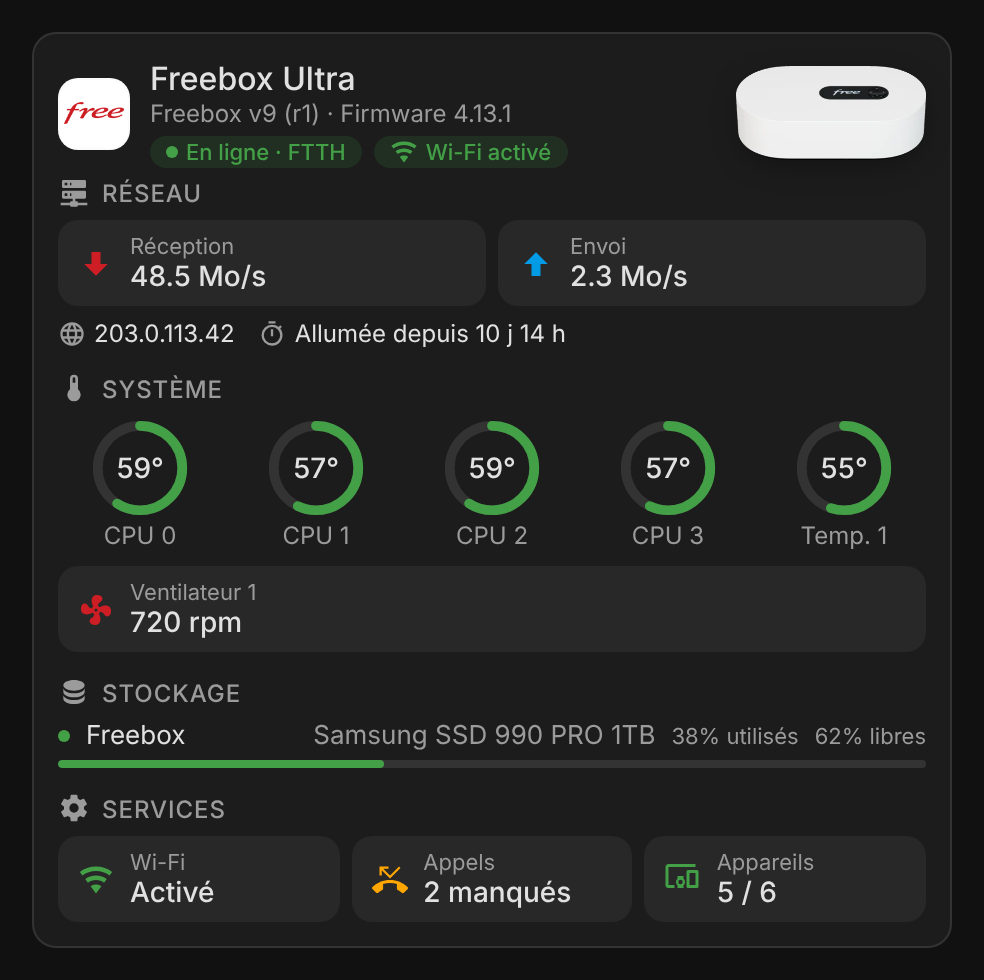
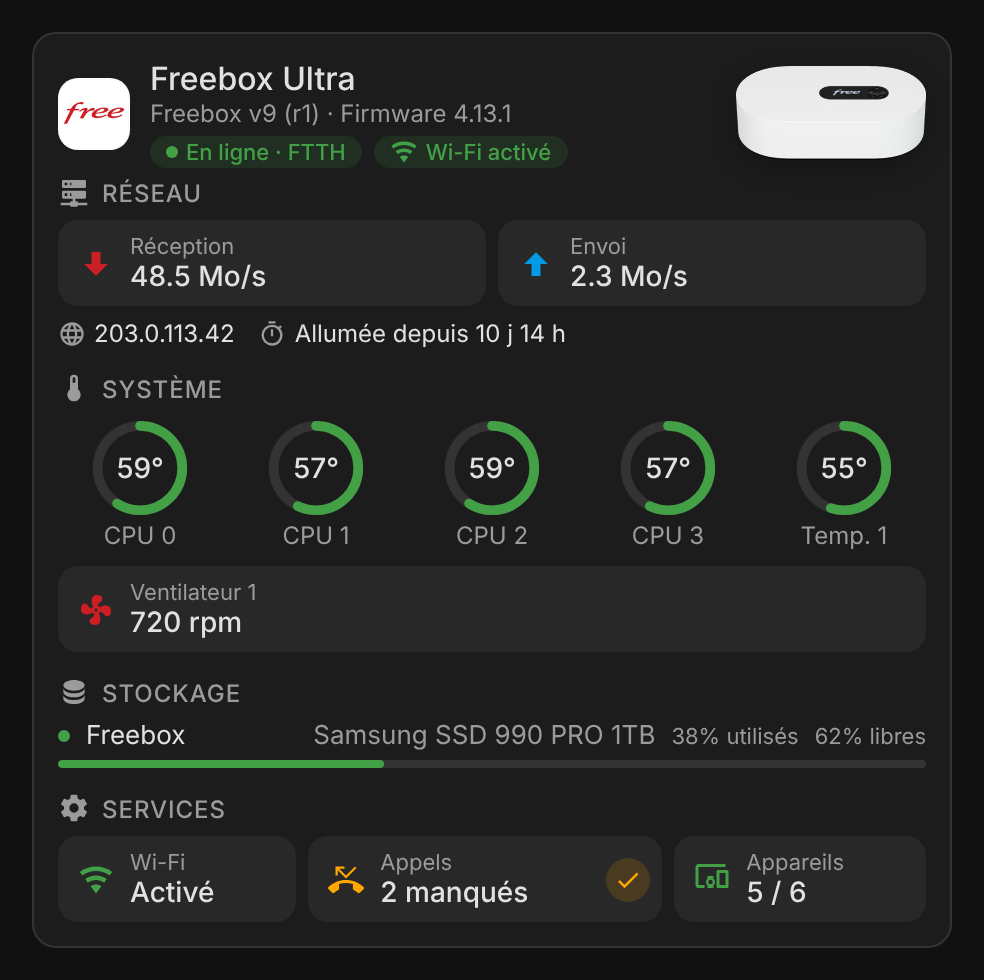
Button to mark missed calls as read (1.5.0) (#4)
The calls tile gets a check button, shown when there are missed calls,
that presses the Freebox integration's mark_calls_as_read button.
Service tiles size to their content so the French label keeps room.
Screenshots regenerated.

Claude-Session: https://claude.ai/code/session_017JzJqMNNFYQBfDS2KaS4H4

Changed region(s): [[0.6098, 0.8571, 0.8537, 0.9184], [0.3354, 0.8571, 0.5793, 0.9184]]

diff --git a/src/freebox-card.js b/src/freebox-card.js
@@ -24,6 +24,7 @@ const ICONS = {
   devices: "M3,6H21V4H3C1.9,4 1,4.9 1,6V18A2,2 0 0,0 3,20H7V18H3V6M13,12H9V13.78C8.39,14.33 8,15.11 8,16C8,16.89 8.39,17.67 9,18.22V20H13V18.22C13.61,17.67 14,16.88 14,16C14,15.12 13.61,14.33 13,13.78V12M11,17.5A1.5,1.5 0 0,1 9.5,16A1.5,1.5 0 0,1 11,14.5A1.5,1.5 0 0,1 12.5,16A1.5,1.5 0 0,1 11,17.5M22,8H16A1,1 0 0,0 15,9V19A1,1 0 0,0 16,20H22A1,1 0 0,0 23,19V9A1,1 0 0,0 22,8M21,18H17V10H21V18Z",
   wifi: "M12,21L15.6,16.2C14.6,15.45 13.35,15 12,15C10.65,15 9.4,15.45 8.4,16.2L12,21M12,3C7.95,3 4.21,4.34 1.2,6.6L3,9C5.5,7.12 8.62,6 12,6C15.38,6 18.5,7.12 21,9L22.8,6.6C19.79,4.34 16.05,3 12,3M12,9C9.3,9 6.81,9.89 4.8,11.4L6.6,13.8C8.1,12.67 9.97,12 12,12C14.03,12 15.9,12.67 17.4,13.8L19.2,11.4C17.19,9.89 14.7,9 12,9Z",
   wifi_off: "M2.28,3L1,4.27L2.47,5.74C2.04,6 1.61,6.29 1.2,6.6L3,9C3.39,8.7 3.82,8.42 4.26,8.16L6.5,10.4C5.9,10.68 5.33,11 4.8,11.4L6.6,13.8C7.14,13.4 7.73,13.06 8.35,12.79L10.88,15.32C10,15.5 9.13,15.79 8.4,16.2L12,21L14.88,17.17L19.73,22L21,20.72L3.28,3H2.28M12,3C10.08,3 8.24,3.3 6.5,3.85L8.97,6.32C9.95,6.11 10.96,6 12,6C15.38,6 18.5,7.12 21,9L22.8,6.6C19.79,4.34 16.05,3 12,3M12,9C11.62,9 11.25,9 10.88,9.05L14.15,12.32C15.32,12.6 16.43,13.09 17.4,13.8L19.2,11.4C17.19,9.89 14.7,9 12,9Z",
+  check: "M21,7L9,19L3.5,13.5L4.91,12.09L9,16.17L19.59,5.58L21,7Z",
   phone: "M6.62,10.79C8.06,13.62 10.38,15.94 13.21,17.38L15.41,15.18C15.69,14.9 16.08,14.82 16.43,14.93C17.55,15.3 18.75,15.5 20,15.5A1,1 0 0,1 21,16.5V20A1,1 0 0,1 20,21A17,17 0 0,1 3,4A1,1 0 0,1 4,3H7.5A1,1 0 0,1 8.5,4C8.5,5.25 8.7,6.45 9.07,7.57C9.18,7.92 9.1,8.31 8.82,8.59L6.62,10.79Z",
   phone_missed: "M23.71,16.67C20.66,13.77 16.54,12 12,12C7.46,12 3.34,13.77 0.29,16.67C0.11,16.85 0,17.1 0,17.38C0,17.66 0.11,17.9 0.29,18.08L2.77,20.56C2.95,20.74 3.2,20.85 3.5,20.85C3.75,20.85 4,20.75 4.18,20.57C4.97,19.83 5.86,19.21 6.84,18.71C7.17,18.55 7.4,18.21 7.4,17.81V14.71C8.85,14.24 10.39,14 12,14C13.6,14 15.15,14.24 16.6,14.72V17.82C16.6,18.22 16.83,18.56 17.16,18.72C18.14,19.21 19.04,19.84 19.82,20.58C20,20.76 20.25,20.86 20.5,20.86C20.8,20.86 21.05,20.75 21.23,20.57L23.71,18.09C23.89,17.91 24,17.66 24,17.38C24,17.1 23.89,16.85 23.71,16.67M6.5,5.5L12,11L19,4L18,3L12,9L7.5,4.5H11V3H5V9H6.5V5.5Z",
   database: "M12,3C7.58,3 4,4.79 4,7C4,9.21 7.58,11 12,11C16.42,11 20,9.21 20,7C20,4.79 16.42,3 12,3M4,9V12C4,14.21 7.58,16 12,16C16.42,16 20,14.21 20,12V9C20,11.21 16.42,13 12,13C7.58,13 4,11.21 4,9M4,14V17C4,19.21 7.58,21 12,21C16.42,21 20,19.21 20,17V14C20,16.21 16.42,18 12,18C7.58,18 4,16.21 4,14Z",
@@ -49,6 +50,7 @@ const STRINGS = {
     on: "On",
     off: "Off",
     missed_calls: "Missed calls",
+    mark_read: "Mark calls as read",
     calls: "Calls",
     missed: "missed",
     fan: "Fan",
@@ -99,6 +101,7 @@ const STRINGS = {
     on: "Activé",
     off: "Désactivé",
     missed_calls: "Appels manqués",
+    mark_read: "Marquer les appels comme lus",
     calls: "Appels",
     missed: "manqués",
     fan: "Ventilateur",
@@ -296,6 +299,7 @@ const discover = (hass, boxId) => {
         const k = e.translation_key;
         const a = hass.states[id].attributes;
         if (k === "rate_down" || k === "rate_up" || k === "missed" || k === "wifi") box.scalars[k] = id;
+        else if (own && domain === "button" && k === "mark_calls_as_read") box.scalars.mark_read = id;
         else if (k === "partition_free_space") box.partitions.push({ id, device: d });
         else if (k === "raid_degraded") box.raids.push(id);
         else if (own && domain === "sensor" && !k && a.device_class === "temperature") box.temps.push({ id, name: shortName(hass, id, dev) });
@@ -312,6 +316,7 @@ const discover = (hass, boxId) => {
       else if (/^sensor\.freebox.*_download_speed$/.test(id)) box.scalars.rate_down ??= id;
       else if (/^sensor\.freebox.*_upload_speed$/.test(id)) box.scalars.rate_up ??= id;
       else if (/^sensor\.freebox.*_missed_calls$/.test(id)) box.scalars.missed ??= id;
+      else if (/^button\.freebox.*_mark_calls_as_read$/.test(id)) box.scalars.mark_read ??= id;
       else if (/^switch\.freebox.*_wifi$/.test(id)) box.scalars.wifi ??= id;
       else if (/^sensor\.freebox/.test(id) && a.device_class === "temperature") box.temps.push({ id, name: tail(hass, id) });
       else if (/^sensor\.freebox/.test(id) && /^rpm$/i.test(a.unit_of_measurement || "")) box.fans.push({ id, name: tail(hass, id) });
@@ -381,7 +386,13 @@ class FreeboxBase extends HTMLElement {
     this.attachShadow({ mode: "open" });
     this._html = "";
     this.shadowRoot.addEventListener("click", (ev) => {
-      const el = ev.composedPath().find((n) => n.dataset && n.dataset.entity);
+      const path = ev.composedPath();
+      const press = path.find((n) => n.dataset && n.dataset.press);
+      if (press) {
+        this._hass?.callService("button", "press", { entity_id: press.dataset.press });
+        return;
+      }
+      const el = path.find((n) => n.dataset && n.dataset.entity);
       if (el) fireMoreInfo(this, el.dataset.entity);
     });
   }
@@ -532,6 +543,14 @@ const FULL_STYLE = `
   .part .detail { font-size: 11px; color: var(--secondary-text-color); display: flex; justify-content: flex-end; grid-column: 2; grid-row: 1; gap: 8px; }
   .tile.svc { --c: var(--secondary-text-color); }
   .tile.svc.ok { --c: var(--fb-ok); } .tile.svc.warn { --c: var(--fb-warn); }
+  .tiles.svc-row { display: flex; flex-wrap: wrap; }
+  .tiles.svc-row .tile { flex: 1 1 auto; }
+  .tile:has(.reset) { padding-right: 6px; }
+  .tile:has(.reset) .v { overflow: hidden; text-overflow: ellipsis; }
+  .tile .reset { margin-left: auto; flex: none; display: grid; place-items: center; width: 22px; height: 22px; padding: 0;
+    border: none; border-radius: 50%; cursor: pointer; color: var(--c); background: color-mix(in srgb, var(--c) 15%, transparent); }
+  .tile .reset:hover { background: color-mix(in srgb, var(--c) 28%, transparent); }
+  .tile .reset .icon { width: 14px; height: 14px; }
   .spin { animation: spin 1.6s linear infinite; }
   @keyframes spin { to { transform: rotate(360deg); } }
   @media (prefers-reduced-motion: reduce) { .spin { animation: none; } }
@@ -671,9 +690,15 @@ class FreeboxCard extends FreeboxBase {
     const missed = this._s(sc.missed);
     if (missed) {
       const n = num(missed) ?? 0;
+      const markRead = n > 0 && this._s(sc.mark_read);
+      const reset = markRead
+        ? `<button class="reset" data-press="${markRead.entity_id}" title="${esc(this._t("mark_read"))}" aria-label="${esc(
+            this._t("mark_read")
+          )}">${svgIcon(ICONS.check)}</button>`
+        : "";
       tiles.push(`<div class="tile svc clickable ${n > 0 ? "warn" : ""}" data-entity="${missed.entity_id}">${svgIcon(
         n > 0 ? ICONS.phone_missed : ICONS.phone
-      )}<div><div class="k">${this._t("calls")}</div><div class="v">${n} ${this._t("missed")}</div></div></div>`);
+      )}<div><div class="k">${this._t("calls")}</div><div class="v">${n} ${this._t("missed")}</div></div>${reset}</div>`);
     }
     if (box.trackers.length) {
       const home = box.trackers.filter((id) => this._s(id)?.state === "home").length;
@@ -682,7 +707,7 @@ class FreeboxCard extends FreeboxBase {
       )}</div><div class="v">${home} / ${box.trackers.length}</div></div></div>`);
     }
     if (!tiles.length) return "";
-    return `<div><div class="section-title">${svgIcon(ICONS.services)}${this._t("services")}</div><div class="tiles">${tiles.join(
+    return `<div><div class="section-title">${svgIcon(ICONS.services)}${this._t("services")}</div><div class="tiles svc-row">${tiles.join(
       ""
     )}</div></div>`;
   }

diff --git a/README.md b/README.md
@@ -28,6 +28,7 @@ The cards are built on top of the [Freebox integration](https://www.home-assista
 - Temperature gauges and fans speed
 - Storage: free space of the disk partitions and RAID status
 - Services: Wi-Fi state, missed calls and connected devices
+- A check button on the calls tile marks the missed calls as read (the integration's **Mark calls as read** button), shown only when there are missed calls
 - Colors turn orange / red when a threshold is crossed (temperatures, disk usage, missed calls)
 - Click any value to open its Home Assistant history (more-info dialog)
 - Click the Free logo to open free.fr, and the Freebox picture to open the Freebox OS admin interface
@@ -142,7 +143,7 @@ language: fr
 
 The cards read the entity and device registries of Home Assistant and keep the entities of the `freebox` platform. Each sensor is recognized by its translation key (`rate_down`, `rate_up`, `missed`, `wifi`, `partition_free_space`, `raid_degraded`), so entity ids translated in another language (for example `sensor.freebox_vitesse_de_telechargement`) and renamed entities are supported.
 
-The Freebox itself is the device of the download speed sensor. Temperature and fan sensors, named by the Freebox, are recognized by their `temperature` device class and `rpm` unit, disk partitions by their parent device, and connected devices by the config entry they share with the Freebox. The connection type, IP addresses and uptime come from the attributes of the Freebox `device_tracker`. When the registry is not available, English entity ids (`sensor.freebox_download_speed`…) are used as a fallback.
+The Freebox itself is the device of the download speed sensor. Temperature and fan sensors, named by the Freebox, are recognized by their `temperature` device class and `rpm` unit, disk partitions by their parent device, and connected devices by the config entry they share with the Freebox. The **Mark calls as read** button is found by its translation key. The connection type, IP addresses and uptime come from the attributes of the Freebox `device_tracker`. When the registry is not available, English entity ids (`sensor.freebox_download_speed`…) are used as a fallback.
 
 Thresholds:
 

diff --git a/CHANGELOG.md b/CHANGELOG.md
@@ -1,5 +1,13 @@
 # Changelog
 
+## 1.5.0
+
+### New
+- A check button on the calls tile marks the missed calls as read: it presses the Freebox integration's **Mark calls as read** button and only shows when there are missed calls. The rest of the tile still opens the missed calls sensor.
+
+### Changes
+- The service tiles size to their content, so "2 manqués" keeps room next to the button.
+
 ## 1.4.0
 
 ### Changes
